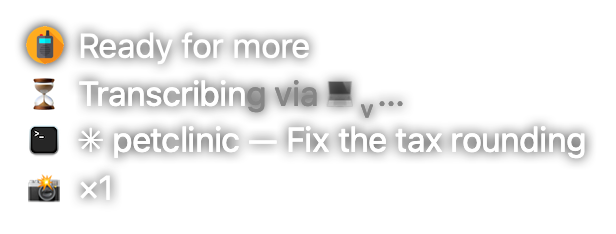
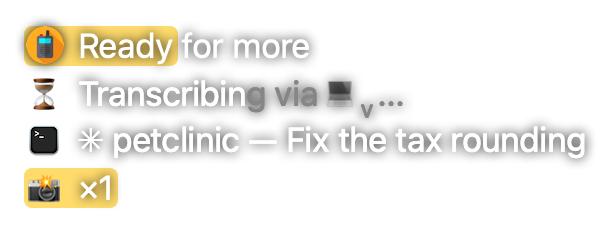
📻 The Ready for more flash covers the word Ready alone

Changed region(s): [[0.0308, 0.0897, 0.3084, 0.2991], [0.0308, 0.7179, 0.2159, 0.8974]]

diff --git a/docs/overlay-states.html b/docs/overlay-states.html
@@ -464,7 +464,7 @@
         </header>
         <div class="shot"><img src="states/transcribing-ready.png" width="308" height="117" style="opacity:0.8" alt="Ready for more — talk again while it transcribes"></div>
         <p class="when">The words are still in flight and a new sentence would be queued behind them, not refused (Q12; the local model too since 2026-10-21).</p>
-        <p class="note"><strong><code>📻 Ready for more</code> is the top row</strong> (2026-10-21, <code>Ready</code> until 2026-10-22, Victor: <em>&quot;even though it&#x27;s transcribing, in the tooltip you should suggest ready whenever I could start talking again by displaying the walkie-talkie at the top of the list … literally saying ready&quot;</em>). The walkie and the row&#x27;s ordinary ink, above the wait — <strong>no green since 2026-10-22</strong>, and the yellow flash of a changed row when it comes up (Victor: <em>&quot;să nu fie cu verde, ci același fond ca de obicei … flash-ul e galben ca de obicei și dispare&quot;</em>). Up from 0.8 s after the stop (a start sooner is the same click) until the words land; never with nothing transcribing, so the chip at rest is what it always was. Not shown while two sentences are already in flight.</p>
+        <p class="note"><strong><code>📻 Ready for more</code> is the top row</strong> (2026-10-21, <code>Ready</code> until 2026-10-22, Victor: <em>&quot;even though it&#x27;s transcribing, in the tooltip you should suggest ready whenever I could start talking again by displaying the walkie-talkie at the top of the list … literally saying ready&quot;</em>). The walkie and the row&#x27;s ordinary ink, above the wait — <strong>no green since 2026-10-22</strong>, and the yellow flash of a changed row when it comes up (Victor: <em>&quot;să nu fie cu verde, ci același fond ca de obicei … flash-ul e galben ca de obicei și dispare&quot;</em>) — <strong>on the word <code>Ready</code> alone</strong> since 2026-10-23 (<em>&quot;cuvântul ready, nu și ready for more&quot;</em>), shown here at its brightest. Up from 0.8 s after the stop (a start sooner is the same click) until the words land; never with nothing transcribing, so the chip at rest is what it always was. Not shown while two sentences are already in flight.</p>
         <code class="slug">transcribing-ready</code>
       </section>
       <section class="card" id="transcribing-lora">
@@ -845,7 +845,7 @@
       </section>
     </div>
 <footer>
-  Generated from <code>OverlayStates.swift</code> · repo at ab5a926 · 23 Oct 2026 · built 23 Oct 2026, 00:39
+  Generated from <code>OverlayStates.swift</code> · repo at c66ff0c · 23 Oct 2026 · built 23 Oct 2026, 01:53
 </footer>
 <button class="toggle" onclick="document.body.classList.toggle('light')">Backdrop: dark / light</button>
 </body>

diff --git a/Sources/WalkieTalkie/OverlayStates.swift b/Sources/WalkieTalkie/OverlayStates.swift
@@ -371,7 +371,7 @@ enum OverlayStates {
 
             Shot(slug: "transcribing-ready", group: "Dictating", title: "Ready for more — talk again while it transcribes",
                  when: "The words are still in flight and a new sentence would be queued behind them, not refused (Q12; the local model too since 2026-10-21).",
-                 note: "**`📻 Ready for more` is the top row** (2026-10-21, `Ready` until 2026-10-22, Victor: *\"even though it's transcribing, in the tooltip you should suggest ready whenever I could start talking again by displaying the walkie-talkie at the top of the list … literally saying ready\"*). The walkie and the row's ordinary ink, above the wait — **no green since 2026-10-22**, and the yellow flash of a changed row when it comes up (Victor: *\"să nu fie cu verde, ci același fond ca de obicei … flash-ul e galben ca de obicei și dispare\"*). Up from 0.8 s after the stop (a start sooner is the same click) until the words land; never with nothing transcribing, so the chip at rest is what it always was. Not shown while two sentences are already in flight.",
+                 note: "**`📻 Ready for more` is the top row** (2026-10-21, `Ready` until 2026-10-22, Victor: *\"even though it's transcribing, in the tooltip you should suggest ready whenever I could start talking again by displaying the walkie-talkie at the top of the list … literally saying ready\"*). The walkie and the row's ordinary ink, above the wait — **no green since 2026-10-22**, and the yellow flash of a changed row when it comes up (Victor: *\"să nu fie cu verde, ci același fond ca de obicei … flash-ul e galben ca de obicei și dispare\"*) — **on the word `Ready` alone** since 2026-10-23 (*\"cuvântul ready, nu și ready for more\"*), shown here at its brightest. Up from 0.8 s after the stop (a start sooner is the same click) until the words land; never with nothing transcribing, so the chip at rest is what it always was. Not shown while two sentences are already in flight.",
                  shape: "chip", alpha: 0.80) { o in
                 o.setBound(label: "petclinic", folder: "petclinic@main", title: "✳ petclinic — Fix the tax rounding", icon: terminal)
                 o.setEngineMark(" via \(Glyphs.Engine.mac.rawValue) \(Glyphs.loraMark)")
@@ -379,6 +379,7 @@ enum OverlayStates {
                 o.setReadyForNext(true)
                 o.setShotCount(1)
                 o.pinTranscribeWarmth(0.45)
+                o.pinChangePulse()
             },
 
             Shot(slug: "transcribing-lora", group: "Dictating", title: "…on Victor's own model",

diff --git a/Sources/WalkieTalkie/RelayWindow.swift b/Sources/WalkieTalkie/RelayWindow.swift
@@ -4612,10 +4612,13 @@ private let heardLabel = NSTextField(labelWithString: "")
     private func placeChangePulses() {
         let now = CACurrentMediaTime()
         var running = false
-        for (pulse, row, label) in [(shotsPulse, recordRow, recordInfo),
-                                    (selectionPulse, selectionRow, selectionLabel),
-                                    (pickPulse, pickRow, pickInfo),
-                                    (readyPulse, readyRow, readyInfo)] {
+        // **`Ready` alone is washed on its row** (2026-10-23, Victor: *"să pui
+        // highlight … cuvântul ready, nu și ready for more"*) — `lead` is the
+        // part of the label the wash covers; nil, the whole label.
+        for (pulse, row, label, lead) in [(shotsPulse, recordRow, recordInfo, nil),
+                                          (selectionPulse, selectionRow, selectionLabel, nil),
+                                          (pickPulse, pickRow, pickInfo, nil),
+                                          (readyPulse, readyRow, readyInfo, Self.readyLead)] as [(ChangePulse, NSView, NSTextField, String?)] {
             guard let t0 = pulse.startedAt, !row.isHidden else { pulse.isHidden = true; continue }
             let age = now - t0
             guard changePulsePinned || age < Self.changePulseDuration else {
@@ -4624,7 +4627,8 @@ private let heardLabel = NSTextField(labelWithString: "")
                 continue
             }
             running = true
-            let words = min(label.frame.width, ceil(label.intrinsicContentSize.width))
+            let words = min(label.frame.width, ceil(lead.map { measure($0, font: label.font ?? hintFont) }
+                                                    ?? label.intrinsicContentSize.width))
             let h = max(0, row.frame.height - 2)
             pulse.frame = NSRect(x: 0, y: ((row.frame.height - h) / 2).rounded(),
                                  width: (label.frame.minX + words + 4).rounded(), height: h)
@@ -5035,6 +5039,8 @@ private let heardLabel = NSTextField(labelWithString: "")
     /// `Ready for more` since 2026-10-22 (Victor: *"în loc de ready, scrie
     /// ready for more"*).
     static let readyText = "Ready for more"
+    /// The word the yellow wash covers on that row — see `placeChangePulses`.
+    static let readyLead = "Ready"
 
     /// **Up for at least this long once shown** (2026-10-22, Victor: *"să se vadă
     /// minim 2 s"*): Wispr answers ~0.3 s after the row comes up at 0.8 s, so 194 of

diff --git a/.claude/rules/overlay-chip.md b/.claude/rules/overlay-chip.md
@@ -372,7 +372,8 @@ yields to `--label`).
 ### Three changes of 2026-10-22, evening
 
 - **`📻 Ready for more` is plain ink**, not green, and flashes the yellow `ChangePulse` when it comes
-  up (`readyPulse`, in `placeChangePulses`' list), and **stays at least 2 s once shown** (`readyMinimum`,
+  up (`readyPulse`, in `placeChangePulses`' list) — **over the word `Ready` alone** since 2026-10-23
+  (`readyLead`; *"cuvântul ready, nu și ready for more"*), and **stays at least 2 s once shown** (`readyMinimum`,
   Victor: *"să se vadă minim 2 s"* — two showings in three lasted ≤ 1 s).
 - **The local countdown is on the `Transcribing` line** while there is one: `Transcribing via <mark>...
   💻 in 3s ⌘⌃X` (`localNowInline`, `AutoLocal.inlineText`, full ink — not part of the bar); the
